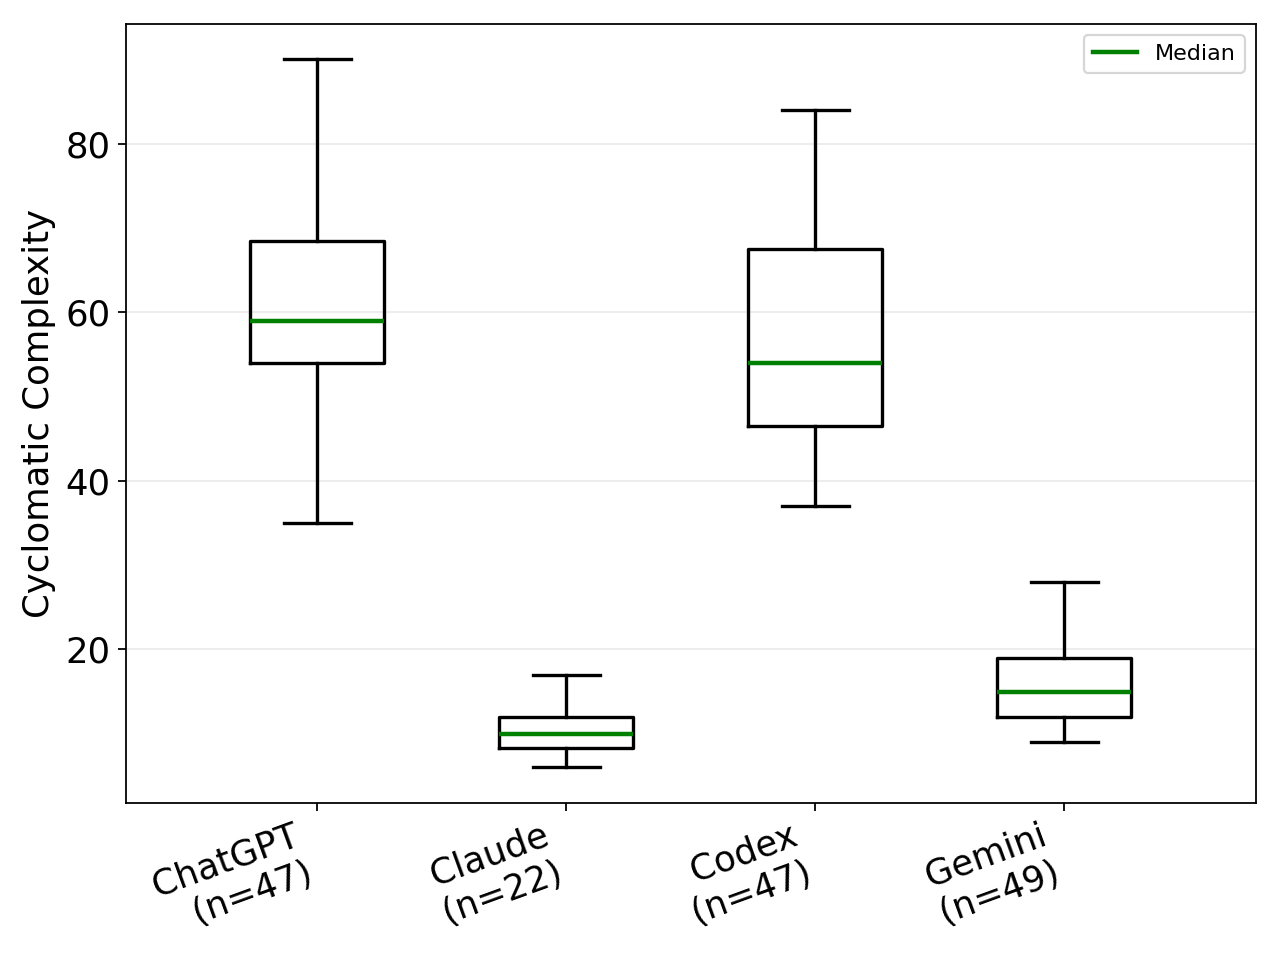
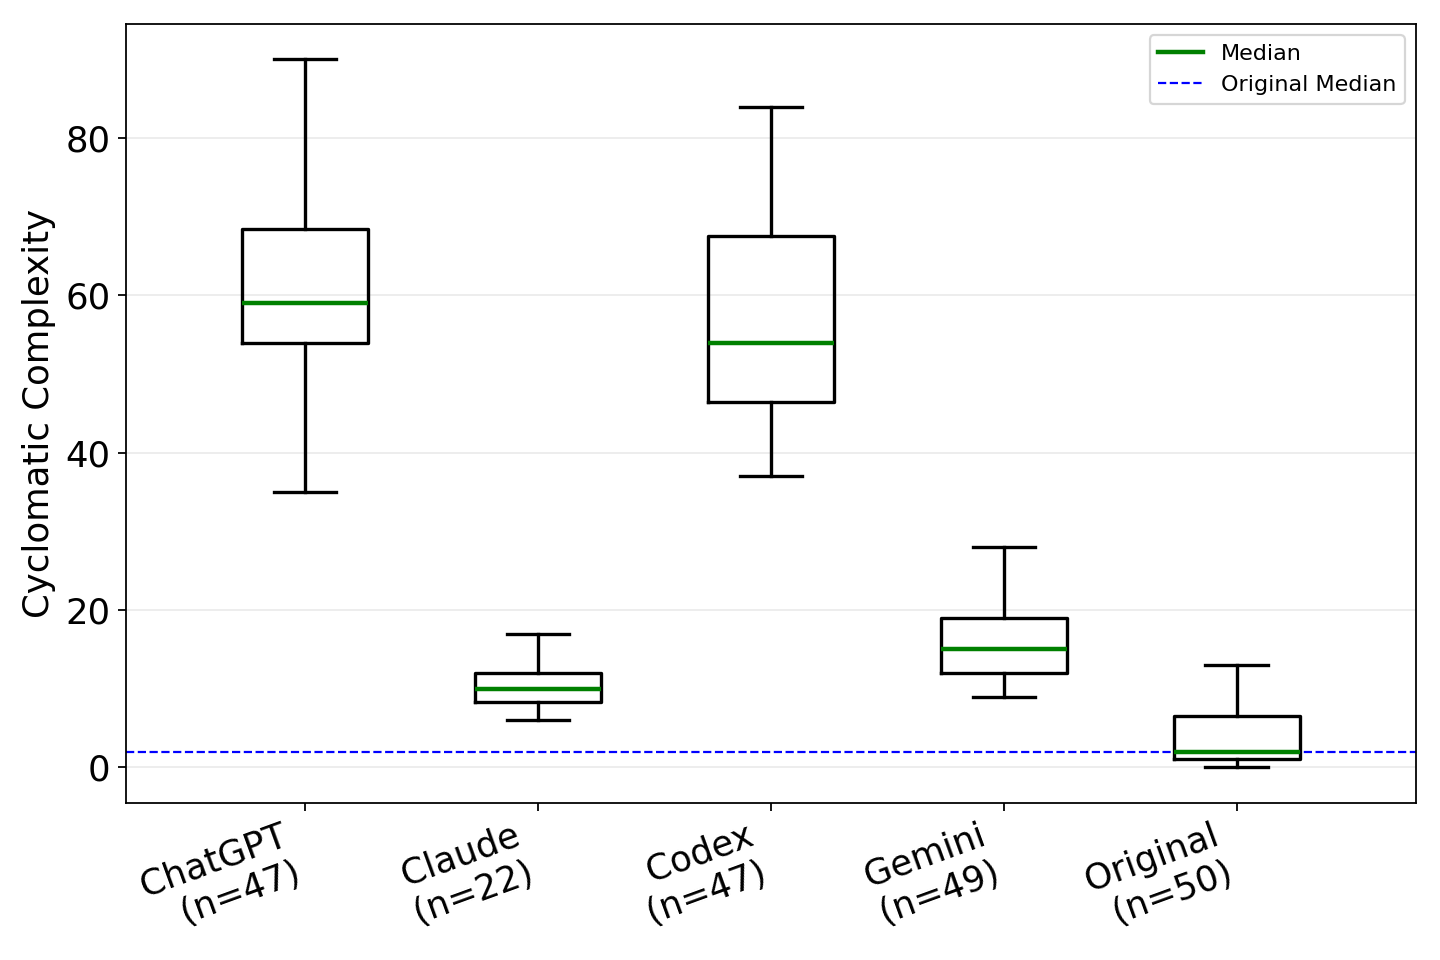
add original box plot

diff --git a/scripts/analyse_cyclomatic_code_complexity.py b/scripts/analyse_cyclomatic_code_complexity.py
@@ -965,11 +965,11 @@ def save_boxplot(
         Line2D([0], [0], color="green", linewidth=2, label="Median"),
     ]
     original_group = next((values for label, values in groups if label == "Original"), None)
-    if original_group:
+    if original_group and len(groups) > 1:
         original_median = float(np.median(original_group))
         ax.axhline(original_median, color="blue", linestyle="--", linewidth=1)
         legend_handles.append(
-            Line2D([0], [0], color="blue", linestyle="--", linewidth=1, label="Original")
+            Line2D([0], [0], color="blue", linestyle="--", linewidth=1, label="Original Median")
         )
     ax.grid(axis="y", alpha=0.25)
     ax.legend(handles=legend_handles, loc="upper right", frameon=True)
@@ -999,6 +999,7 @@ def save_llm_boxplot(
     records: Sequence[ComplexityRecord],
     output_dir: Path,
     mode_filter: Optional[str],
+    include_original: bool,
     title: str,
     file_name: str,
     plt,
@@ -1006,16 +1007,26 @@ def save_llm_boxplot(
     Line2D,
 ) -> Optional[Path]:
     groups: dict[str, list[float]] = defaultdict(list)
+    original_values: list[float] = []
     for record in records:
         if record.mode == "original":
+            if include_original and math.isfinite(record.complexity):
+                original_values.append(record.complexity)
             continue
         if mode_filter and record.mode != mode_filter:
             continue
         if not math.isfinite(record.complexity):
             continue
         groups[display_llm_name(record.llm)].append(record.complexity)
+
+    ordered_groups: dict[str, list[float]] = {}
+    for key in sorted(groups):
+        ordered_groups[key] = groups[key]
+    if include_original and original_values:
+        ordered_groups["Original"] = original_values
+
     return save_boxplot(
-        {key: groups[key] for key in sorted(groups)},
+        ordered_groups,
         title,
         "Cyclomatic Complexity",
         output_dir / file_name,
@@ -1610,7 +1621,8 @@ def main() -> None:
             records,
             output_dir,
             "assisted",
-            "Cyclomatic Complexity by LLM (Assisted)",
+            True,
+            "Cyclomatic Complexity by LLM with Original Baseline (Assisted)",
             "boxplot_complexity_by_llm_assisted.png",
             plt,
             np,
@@ -1620,7 +1632,8 @@ def main() -> None:
             records,
             output_dir,
             "autonomous",
-            "Cyclomatic Complexity by LLM (Autonomous)",
+            True,
+            "Cyclomatic Complexity by LLM with Original Baseline (Autonomous)",
             "boxplot_complexity_by_llm_autonomous.png",
             plt,
             np,
@@ -1630,6 +1643,7 @@ def main() -> None:
             records,
             output_dir,
             None,
+            False,
             "Cyclomatic Complexity by LLM (Assisted + Autonomous)",
             "boxplot_complexity_by_llm_generated.png",
             plt,
